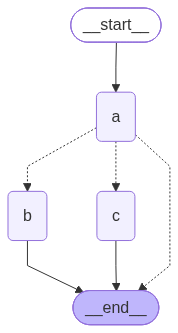
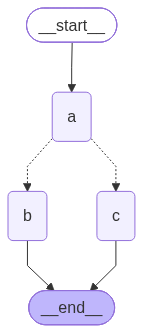
fix: Add path map

diff --git a/courses/langgraph/src/05-memory.ts b/courses/langgraph/src/05-memory.ts
@@ -46,11 +46,14 @@ function routeFromA(state: State): string {
 }
 
 export const graph = new StateGraph(StateDefinition)
-  .addNode("a", nodeA, { ends: ["b", "c"] })
+  // Incorrectly adding ends will cause the diagram renderer to
+  // generate two arrows going into the same node
+  // .addNode("a", nodeA, { ends: ["b", "c"] })
+  .addNode("a", nodeA)
   .addNode("b", nodeB)
   .addNode("c", nodeC)
   .addEdge(START, "a")
-  .addConditionalEdges("a", routeFromA)
+  .addConditionalEdges("a", routeFromA, ["b", "c"])
   .addEdge("b", END)
   .addEdge("c", END)
   .compile({ checkpointer: memory });

diff --git a/courses/langgraph/src/04-conditional-router-edge.ts b/courses/langgraph/src/04-conditional-router-edge.ts
@@ -48,7 +48,9 @@ export const graph = new StateGraph(StateDefinition)
   .addNode("b", nodeB)
   .addNode("c", nodeC)
   .addEdge(START, "a")
-  .addConditionalEdges("a", routeFromA)
+  // When no destination list is provided,
+  // the diagram rendered assumes the router could reach every other node
+  .addConditionalEdges("a", routeFromA, ["b", "c"])
   .addEdge("b", END)
   .addEdge("c", END)
   .compile();

diff --git a/courses/langgraph/src/06-interrupt.ts b/courses/langgraph/src/06-interrupt.ts
@@ -90,7 +90,7 @@ export const graph = new StateGraph(StateDefinition)
   .addNode("b", nodeB)
   .addNode("c", nodeC)
   .addEdge(START, "a")
-  .addConditionalEdges("a", routeFromA)
+  .addConditionalEdges("a", routeFromA, ["b", "c"])
   .addEdge("b", END)
   .addEdge("c", END)
   .compile({ checkpointer: memory });
